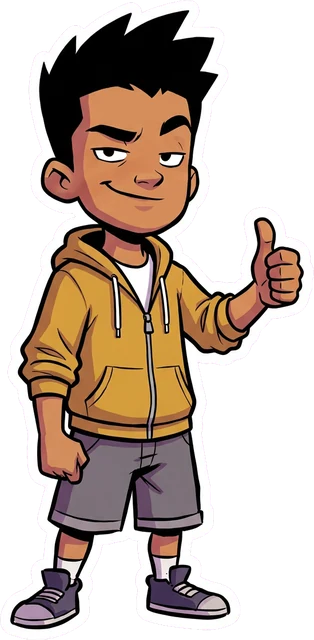
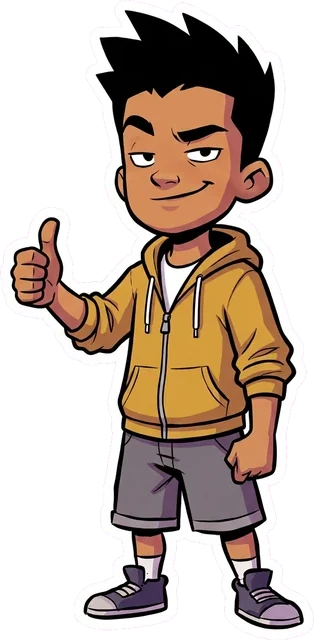
Hero: Subbu leans on her elbow only, Arjun thumbs up with right hand, no Z animation; Subbu labelled "The curious one"

diff --git a/index.html b/index.html
@@ -87,16 +87,13 @@ nav a:hover{color:var(--red)}
 .gappu{position:absolute;left:50%;bottom:86%;width:27%;z-index:4;transform:translateX(-50%);animation:dropIn .8s 3s cubic-bezier(.3,1.3,.5,1) both}
 .gappu img{width:100%;filter:drop-shadow(3px 3px 0 rgba(0,0,0,.35))}
 @keyframes dropIn{0%{transform:translate(-50%,-260%) rotate(25deg);opacity:0}20%{opacity:1}100%{transform:translateX(-50%) rotate(-2deg);opacity:1}}
-.z{position:absolute;right:-4%;top:-10%;font:400 1.6rem/1 var(--sfx);color:var(--white);-webkit-text-stroke:1.5px var(--ink);paint-order:stroke fill;opacity:0;animation:snore 2.4s 3.9s infinite}
-.z2{animation-delay:4.7s;font-size:1.3rem} .z3{animation-delay:5.5s;font-size:1rem}
-@keyframes snore{0%{transform:translate(0,0) scale(.6);opacity:0}20%{opacity:1}100%{transform:translate(26px,-46px) scale(1.2);opacity:0}}
 @media (max-width:700px){
   .logo-stage{width:100%;padding-inline:13%}
   .char{height:96%;bottom:-6%}
   .subbu{left:-2%} .arjun{right:-2%}
   .gappu{width:30%;bottom:80%}
 }
-@media (prefers-reduced-motion:reduce){.cover,.roll{display:none}.char,.gappu,.z{animation:none!important;opacity:1}}
+@media (prefers-reduced-motion:reduce){.cover,.roll{display:none}.char,.gappu{animation:none!important;opacity:1}}
 .tagline{font:400 clamp(1.8rem,4.2vw,2.8rem)/1.05 var(--sfx);letter-spacing:.03em;color:var(--white);-webkit-text-stroke:2px var(--ink);paint-order:stroke fill;text-shadow:4px 4px 0 var(--ink)}
 .pitch{font:800 1.15rem/1.45 var(--body);background:var(--white);border:3px solid var(--ink);box-shadow:4px 4px 0 var(--ink);padding:10px 18px;max-width:46ch}
 
@@ -257,7 +254,7 @@ footer .soon{color:var(--yellow);font-weight:700}
       </div>
       <img class="char subbu" src="art/subbu.webp" alt="Subbu">
       <img class="char arjun" src="art/arjun.webp" alt="Arjun">
-      <div class="gappu" aria-hidden="true"><img src="art/gappu-sleep.webp" alt=""><span class="z z1">Z</span><span class="z z2">Z</span><span class="z z3">Z</span></div>
+      <div class="gappu" aria-hidden="true"><img src="art/gappu-sleep.webp" alt=""></div>
     </div>
     <h1 class="tagline">Think for yourself, on paper.</h1>
     <p class="pitch">AI can do your child's thinking for them. This Saturday makes sure they still do it themselves: a screen-free weekly workout for creativity and logic, on paper.</p>
@@ -337,7 +334,7 @@ footer .soon{color:var(--yellow);font-weight:700}
     <div class="jet"><img src="art/crew.jpg" alt="Gappu the white robot, Subbu in a white chikankari kurta and jeans, and Arjun in a mustard hoodie stand side by side"></div>
     <div class="who-list">
       <div class="who-card"><span class="role">The robot sidekick</span><b>GAPPU</b><p>Knows lots of facts, and sometimes gets them wrong. With Gappu, your child learns that even a computer can be wrong, so they practise thinking for themselves.</p></div>
-      <div class="who-card"><span class="role">The question-asker</span><b>SUBBU</b><p>Asks "why?" about everything and checks facts before she believes them. With Subbu, your child practises asking good questions and spotting what doesn't add up.</p></div>
+      <div class="who-card"><span class="role">The curious one</span><b>SUBBU</b><p>Asks "why?" about everything and checks facts before she believes them. With Subbu, your child practises asking good questions and spotting what doesn't add up.</p></div>
       <div class="who-card"><span class="role">The builder</span><b>ARJUN</b><p>Has big ideas and loves making things go WHOOSH. When a plan fails, he changes one thing and tries again. With Arjun, your child practises not giving up.</p></div>
     </div>
     <p class="note">All our characters are our own. We never use licensed cartoon characters.</p>
